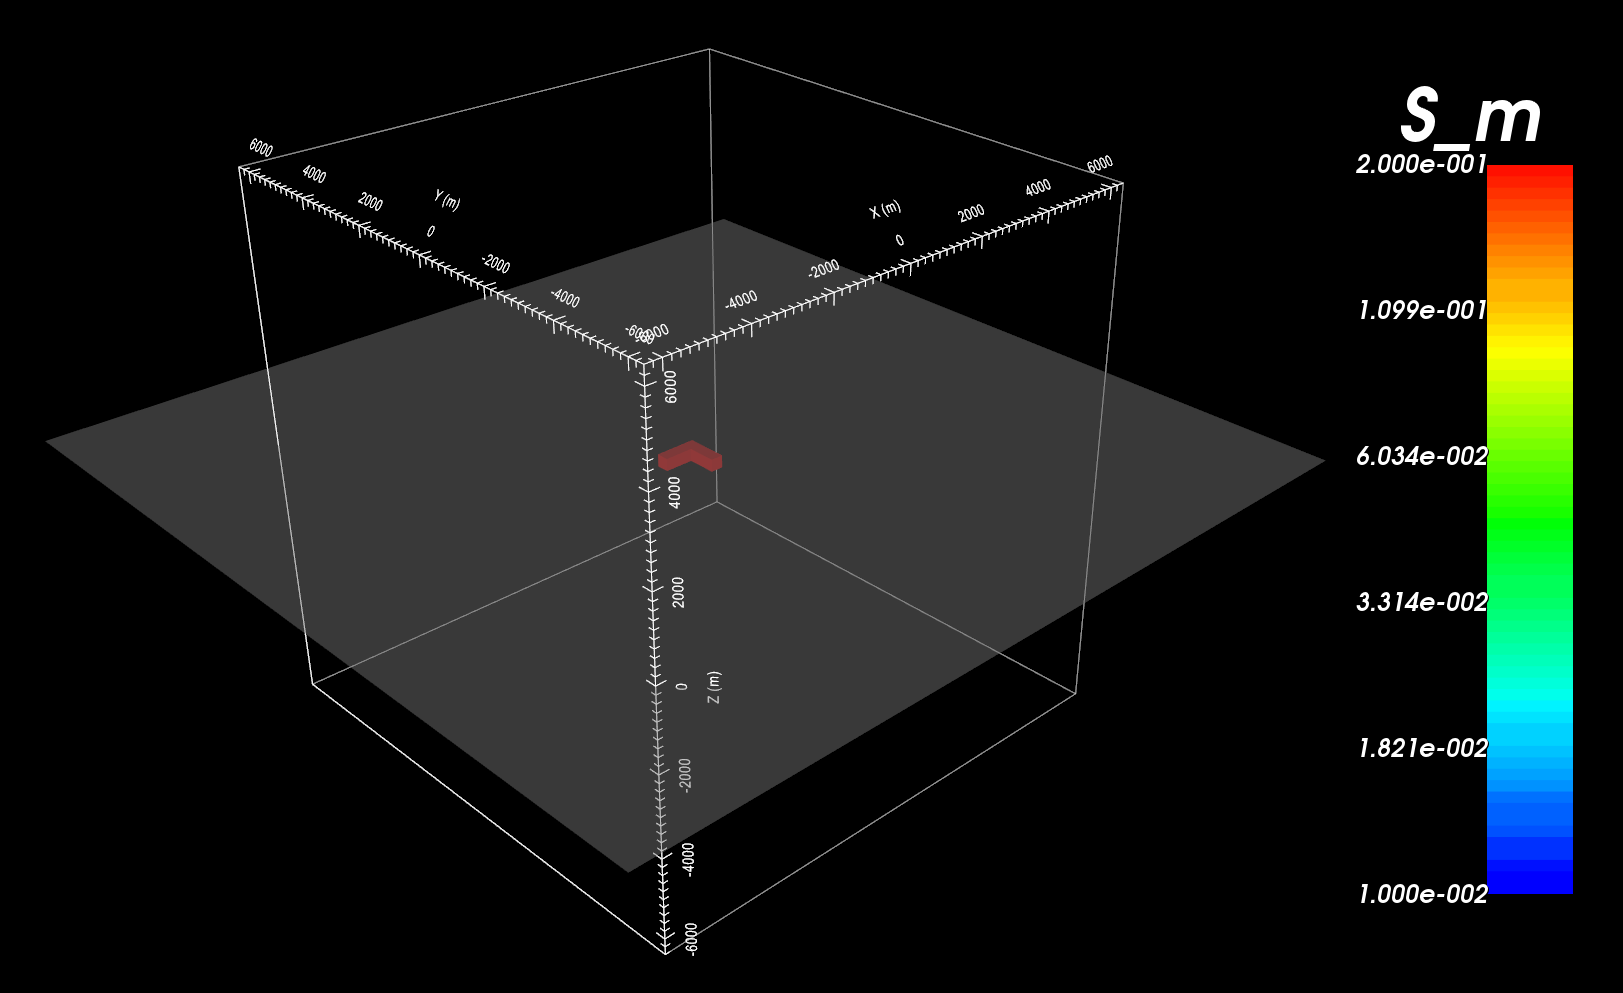
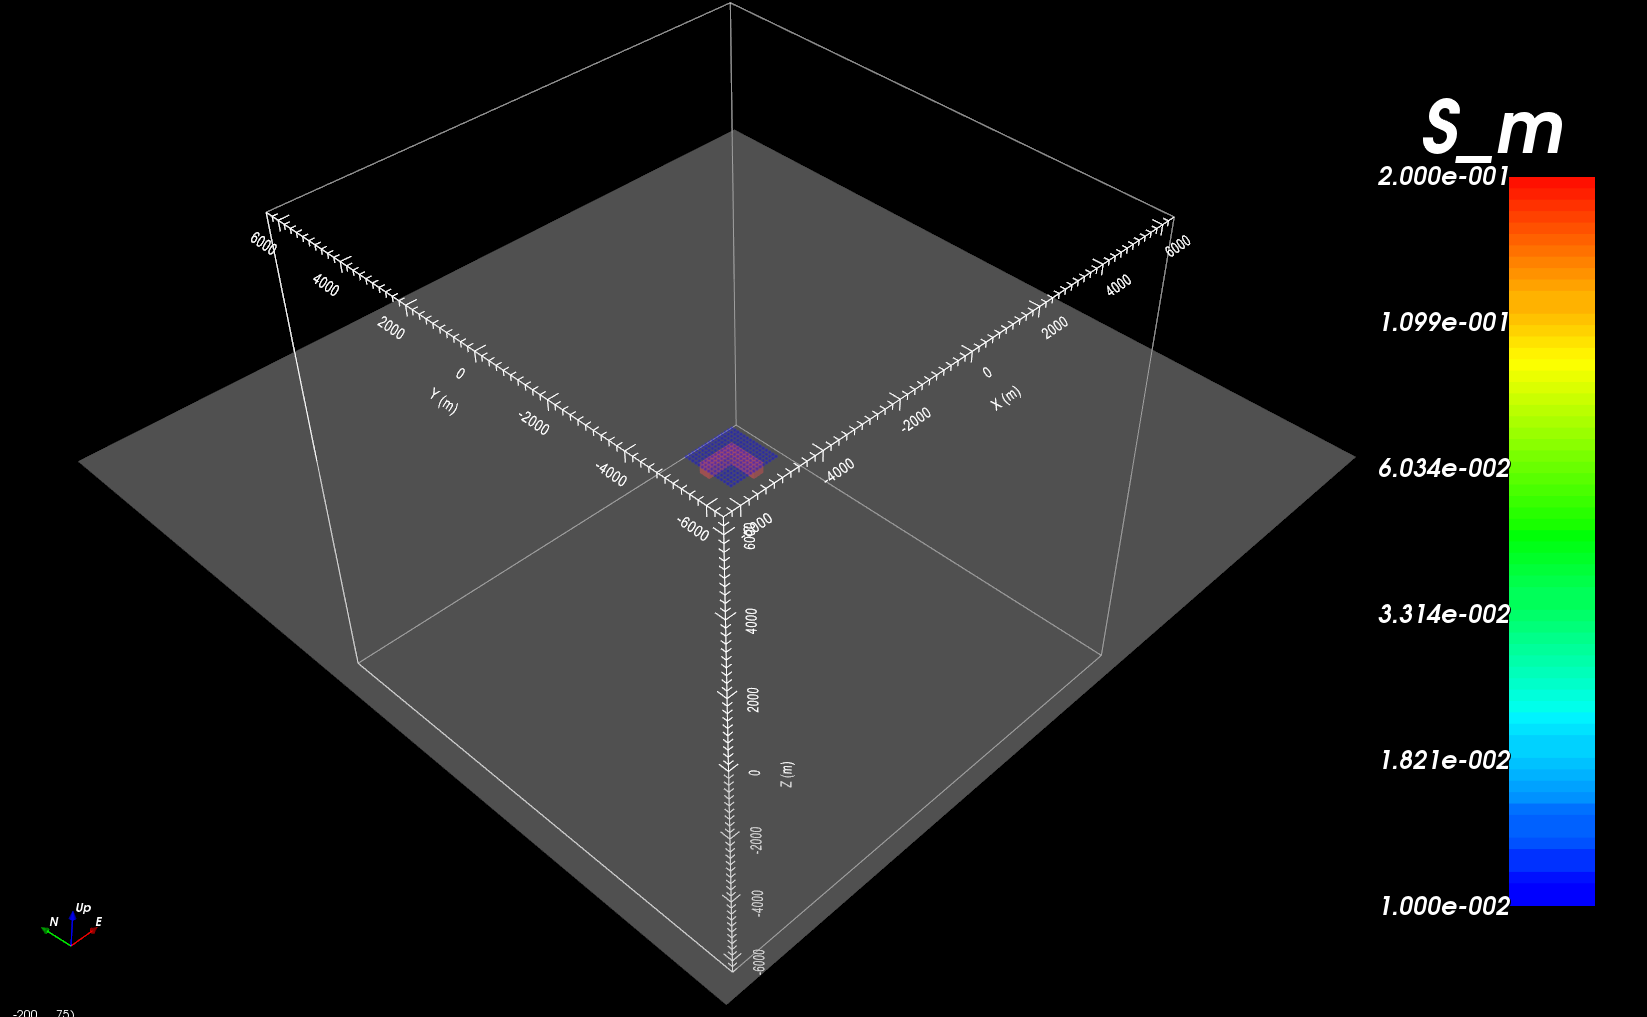
update model

diff --git a/content/example/create_model.rst b/content/example/create_model.rst
@@ -17,11 +17,11 @@ Here is the input file for **blk3cellOct.exe**
      :width: 700
 
 
-The resulting Octree model shows a conductor (:math:`\sigma` = 0.2 S/m) within a more resistive background (:math:`\sigma_b` = 0.01 S/m).
+The resulting Octree model shows a conductive block (:math:`\sigma` = 0.2 S/m) within a more resistive background (:math:`\sigma_b` = 0.01 S/m). A constant topography of 0 m in elevation is shown in gray. The observation locations are shown in blue.
 
 
-.. .. figure:: images/octree_model2.png
-..      :align: center
-..      :width: 500
+.. figure:: images/octree_model2.png
+     :align: center
+     :width: 500
 
 
